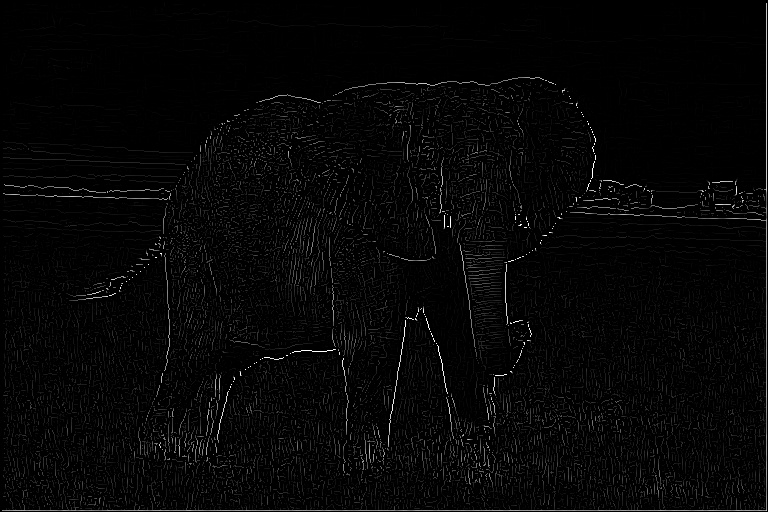
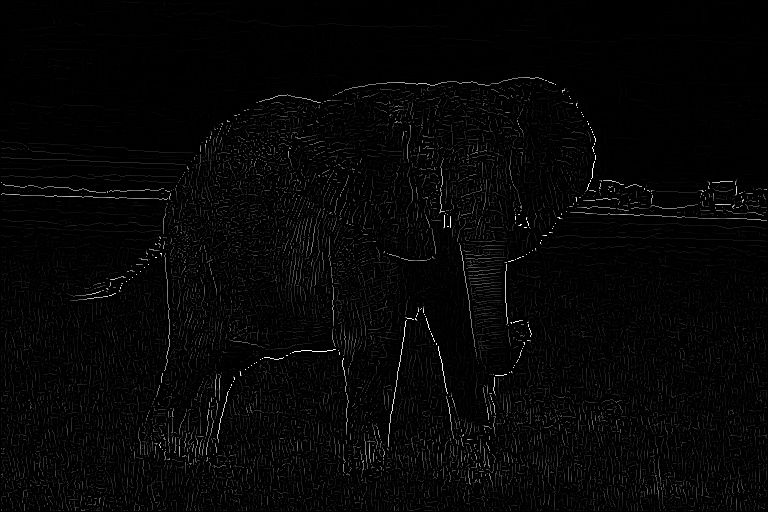
fix white border issue

Changed region(s): [[0.9688, 0.9688, 1.0, 1.0], [0.0938, 0.9688, 0.125, 1.0]]

diff --git a/HW6/110590034_hw6.py b/HW6/110590034_hw6.py
@@ -20,8 +20,11 @@ def get_n_kernel(image, row, col, kernel_size):
     kernel = np.zeros((kernel_size, kernel_size)).astype(np.float64)
     for i in range(-kernel_size//2, kernel_size//2+1):
         for j in range(-kernel_size//2, kernel_size//2+1):
-            if 0 <= row+i < height and 0 <= col+j < width:
-                kernel[i+kernel_size//2][j+kernel_size//2] = image[row+i][col+j]
+            # if 0 <= row+i < height and 0 <= col+j < width:
+            #     kernel[i+kernel_size//2][j+kernel_size//2] = image[row+i][col+j]
+            new_row = min(max(row + i, 0), height - 1)
+            new_col = min(max(col + j, 0), width - 1)
+            kernel[i + kernel_size//2][j + kernel_size//2] = image[new_row][new_col]
     return kernel
 
 def gaussian_kernel(kernel_size, sigma):
@@ -156,16 +159,15 @@ def image(number, gaussian_kernel_size, sigma, double_threshold_low, double_thre
     else:
         origin_image = cv2.imread(f'images/img{number}.jpg')
 
-    print(origin_image.shape)
     gray_image = rgb_to_gray(origin_image)
-    print(gray_image.shape)
     cv2.imwrite(f'results/img{number}_1.jpg', gray_image)
 
     gaussian_filtered_image = gaussian_filter(gray_image, gaussian_kernel_size, sigma)
-    print(gaussian_filtered_image.shape)
     cv2.imwrite(f'results/img{number}_2.jpg', gaussian_filtered_image)
 
     magnitude, slope = sobel_filter(gaussian_filtered_image)
+    cv2.imwrite(f'results/img{number}_2_mag.jpg', magnitude)
+    print(magnitude.max(), magnitude.min())
 
     suppressed_image = non_maximum_suppression(magnitude, slope)
     cv2.imwrite(f'results/img{number}_3.jpg', suppressed_image)
@@ -174,9 +176,9 @@ def image(number, gaussian_kernel_size, sigma, double_threshold_low, double_thre
     cv2.imwrite(f'results/img{number}_4.jpg', double_threshold_image)
 
     edge_image = edge_tracking(double_threshold_image, weak, strong)
-    cv2.imwrite(f'results/img{number}.jpg', edge_image)
+    cv2.imwrite(f'results/img{number}_sobel.jpg', edge_image)
 
 if __name__ == '__main__':
-    image(number=1, gaussian_kernel_size=5, sigma=1.6, double_threshold_low=0.05, double_threshold_high=0.5)
-    image(number=2, gaussian_kernel_size=5, sigma=1.6, double_threshold_low=0.15, double_threshold_high=0.3)
-    image(number=3, gaussian_kernel_size=3, sigma=1.2, double_threshold_low=0.18, double_threshold_high=0.2)
+    image(number=1, gaussian_kernel_size=5, sigma=1.7, double_threshold_low=0.05, double_threshold_high=0.5)
+    image(number=2, gaussian_kernel_size=5, sigma=1.7, double_threshold_low=0.15, double_threshold_high=0.3)
+    image(number=3, gaussian_kernel_size=3, sigma=1.3, double_threshold_low=0.18, double_threshold_high=0.2)
